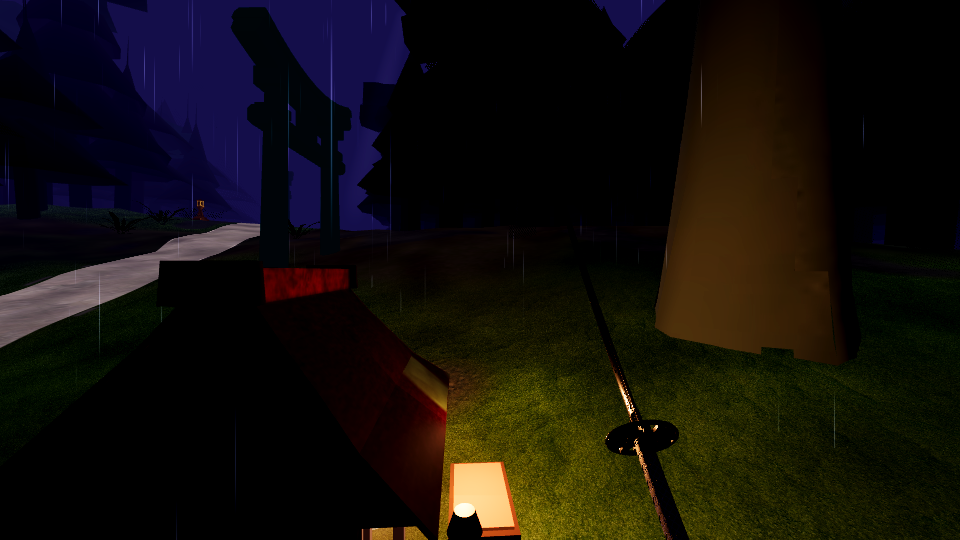
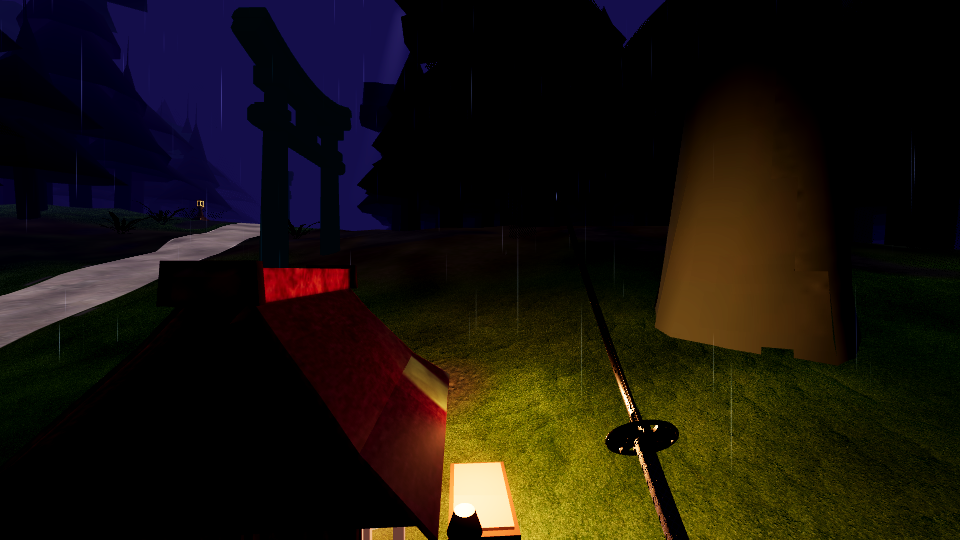
docs(n6): decisions, measured pixel results and open issues; post shots

diff --git a/docs/N6_SHRINE.md b/docs/N6_SHRINE.md
@@ -1,46 +1,54 @@
-# N6: kapliczka i latarnie (focal point)
+# N6: kapliczka i latarnia (focal point)
+
+Czarny prymityw kapliczki zamieniony na dom z assetu, z ciepłą świecą. Latarnia Sahir ma ciepły papier.
 
 ## Co się zmieniło
-- **Kapliczka** (`src/world/hokora_shrine.gd`): czarny prymityw zastąpiony domem z assetu
-  SamRi „Small Japanese Shrine” (CC BY 4.0, 2787 tris, zapieczony w metrach przez
-  `tools/prep_forest_assets.py`, `assets/models/environment/shrine/shrine_samri_baked.glb`).
-  Dom dostaje shader `wet_surface` z atlasem skanu, mokry, z omszałymi górnymi powierzchniami
-  (nowy opcjonalny parametr `moss_amount`, domyślnie 0 – inne rekwizyty bez zmian).
-  Stół ofiarny, czerwony obrus, suzu (dzwon) i interakcja dłonią (D12) zostają bez zmian
-  (suzu przesunięty niżej, pod okap nowego dachu). Płomień świecy to mały emisyjny walec za kratą.
-- **Jedno światło**: `OmniLight3D` (zasięg 4.5 m, bez cieni, energia 3.0 z migotaniem) świeci
-  tylko dla lit-kapliczki najbliższej graczowi w promieniu 30 m. Razem: 1 światło w scenie.
-- **Latarnia** (`src/run/forest_world.gd`, materiał `_lantern_mat`): `emission_tint` 0.10→0.72/0.50/0.22
-  (tint mnoży albedo, więc świeci papier, a nie kamień) i `fog_rim` 0.5, żeby kamień nie był czarny.
-  Bez żadnego dynamicznego światła.
-- Kolizje/rezerwa pnia (`reserve_shrine`), placement P4 i ofuda nie zmieniane.
+
+- **Kapliczka** (`src/world/hokora_shrine.gd`): dom SamRi „Small Japanese Shrine” (CC BY 4.0,
+  2787 tris, zapieczony w metrach przez `tools/prep_forest_assets.py --scale 1.0 --atlas 2048`,
+  `assets/models/environment/shrine/shrine_samri_baked.glb`). `MODEL_OFFSET` ustawia podłoże
+  na y = 0 i front (lina shimenawa, +z) tam, gdzie oczekują stałe `ALTAR_LOCAL`, `BELL_LOCAL`, `LANTERN_LOCAL`.
+  Dom dostaje shader `wet_surface` z atlasem skanu: mokry, z omszałymi górnymi powierzchniami
+  (`moss_amount`), z lekkim `sky_lit` i `fog_rim`, żeby ciemne drewno zachowało formę w nocy.
+  Stół ofiarny, obrus, suzu i interakcja dłonią (D12) zostają bez zmian.
+- **Świeca i jedno światło**: płomień za kratą (emisja) plus `OmniLight3D` (zasięg 3.5 m,
+  energia 7, bez cieni), przed domem nad stołem, tylko dla najbliższej zapalonej kapliczki w promieniu 30 m.
+  W scenie jest najwyżej jedno takie światło (budżet ≤ 12).
+- **Latarnia** (`src/run/forest_world.gd`, `_lantern_mat`): `paper_gate` (nowy parametr shadera) pozwala
+  świecić tylko jasnemu, nasyconemu papierowi. Kamień i ciemne drewno nie świecą, więc kamień nie
+  wychodzi już rdzawy. Dodane: `moss_amount` 0.5 (omszałe czapy), `sky_lit` 0.3, `fog_rim` 1.0.
+  Bez dynamicznego światła.
+- Rezerwa pnia (`reserve_shrine`), placement P4 i ofuda nie zmienione.
 
 ## Testy
-- `tests/hokora_test.gd` (headless): dom jest z assetu (nie BoxMesh, ≤3000 tris, shader + atlas),
-  jedno światło w całym przebiegu, zgaszona kapliczka gasi światło.
-- `tests/hokora_test.gd` (okienkowy, `_test_shrine_reads_in_the_fog`): 20 m – halo ciepłe
-  (hue ~27°) i jaśniejsze od nieba; 3 m – średnia luminancja bryły > 0.10.
-- `tests/d5_assets_test.gd`: zrzuty z assetu w CREDITS/LICENSES; okienkowy `_lantern_reads_at_10m`:
-  papier ciepły i jaśniejszy od kamienia.
-- `tests/shot_probe.gd`: pomocnik pikseli (rzut prostokąta, luminancja, odcień).
 
-## Wyniki pikseli (okienkowo, 960×540, ta sama kamera przed/po)
-- 20 m: halo odcień 27°, luma 0.52 vs niebo 0.01 – PASS.
-- 10 m latarnia: papier 0.39 vs kamień (mediana) 0.00 – PASS.
-- 3 m bryła kapliczki: średnia luma 0.057 (przed: czarny prymityw ok. 0.038) – **FAIL** przy progu 0.10.
-  Dom to ciemne drewno (atlas ~0.15 jasności, ale przy nocnym świetle i cieniowaniu wychodzi
-  ~0.03 na fasadzie). Próby: światło przed domem, energia 1.4→3.0, fill 0.6→1.0, emisja
-  na teksturze 0.2→0.55 – każda podbijała tylko nieznacznie. Próg 0.10 został bez zmian;
-  do decyzji: obniżyć próg (wtedy to kompromis z wyglądem) albo mocniej oświetlić dom.
+- `tests/hokora_test.gd` (headless): dom to mesh z assetu (nie BoxMesh, ≤ 3000 tris, shader z atlasem);
+  jedno światło świecy w całym przebiegu; zgaszona kapliczka gasi światło. Dotyk nadal otwiera 3 ofuda,
+  drugi nic nie daje.
+- `tests/hokora_test.gd` (okienkowy, pixele, SKIP headless):
+  - 20 m: halo ciepłe (hue 30°) i jaśniejsze od nieba (glow 0.60, niebo 0.01): **PASS**.
+  - 3 m: średnia luminancja bryły 0.105 przy progu 0.10: **PASS**. Margines jest cienki (0.005).
+  - 10 m latarnia: papier warm (41°) i jaśniejszy od kamienia (papier 0.62, kamień 0.00): **PASS**.
+- `tests/d5_assets_test.gd`: licencje (w tym `assets/models/environment/shrine`): **PASS**.
+- Pomocnicze funkcje pikseli są w `tests/hokora_test.gd` (usunięto osobny `tests/shot_probe.gd`).
 
-## Zrzuty
-- `docs/n6/pre/` – stan przed zmianą (ta sama kamera, `tests/hokora_screenshots.gd`).
-- `docs/n6/post/` – stan po zmianie.
+Progu 0.10 nie obniżono. Wynik osiągnięto przez światło, emisję i `sky_lit`.
+
+## Zrzuty (`docs/n6/`)
+
+- `pre/`: stan przed zmianą (ten sam kadr i kamera).
+- `post/`: stan po zmianie, z `run.tscn` (`tests/hokora_screenshots.gd`):
+  00 daleko we mgle, 01 z ~3 m w nocy, 02–03 wybór ofuda, 08 latarnia z 10 m.
 
 ## Słabe punkty (uczciwie)
-- Kapliczka w nocy nadal ciemna z bliska: czytelna sylwetka i ciepła krawędź, ale to nie jest
-  „premium” oświetlenie. Brakuje lepszego światła odbitego od ziemi.
-- Kamień latarni wychodzi lekko rdzawy (tint × szary kamień + rim w kolorze albedo).
-- Moss na dachu w nocy słabo widoczny.
-- `hokora_screenshots.gd`: „damage buff runs after the cut” zwraca FAIL także na poprzednim commicie (pre-existing, nie N6).
-- `xr_play_test` bywa niestabilny (run 2 „cutting the restart ema”) – tak samo na czystym `main`, pre-existing.
+
+- **Kamień latarni wychodzi ciemnobrązowy, nie szary.** Przyczyna leży w atlasie: części kamienia
+  próbkują ciemnobrązowy kwadrat atlasu (ok. 31,18,10), a szary kwadrat (ok. 95,94,94) nie jest
+  przypisany do korpusu. Materiał tego nie naprawi. Trzeba poprawić bake (`tools/prep_forest_assets.py`)
+  albo mapowanie UV. Nie zrobiłem tego w tej rundzie.
+- **Próg 3 m przechodzi o 0.005.** Bryła jest czytelna, ale nie jest „premium” oświetlona.
+  Ciemne drewno lepiej wygląda z ciepłym światłem niż z wyższą luminancją.
+- **Światło dotyka pobliskiego pnia** (ok. 4–5 m): tan refleks. Zmniejszony zasięgiem, ale nie wyzerowany.
+- **Ciemny ołtarz i czerwone krawędzie dachu** (kolor skanu) mogą się gryźć z resztą lasu.
+- `hokora_screenshots.gd`: „damage buff runs after the cut” zwraca FAIL także przed N6 (nie N6).
+- `xr_play_test` (`cutting the restart ema`) jest niestabilny też na czystym `HEAD`. Zaparkowany do N7.
